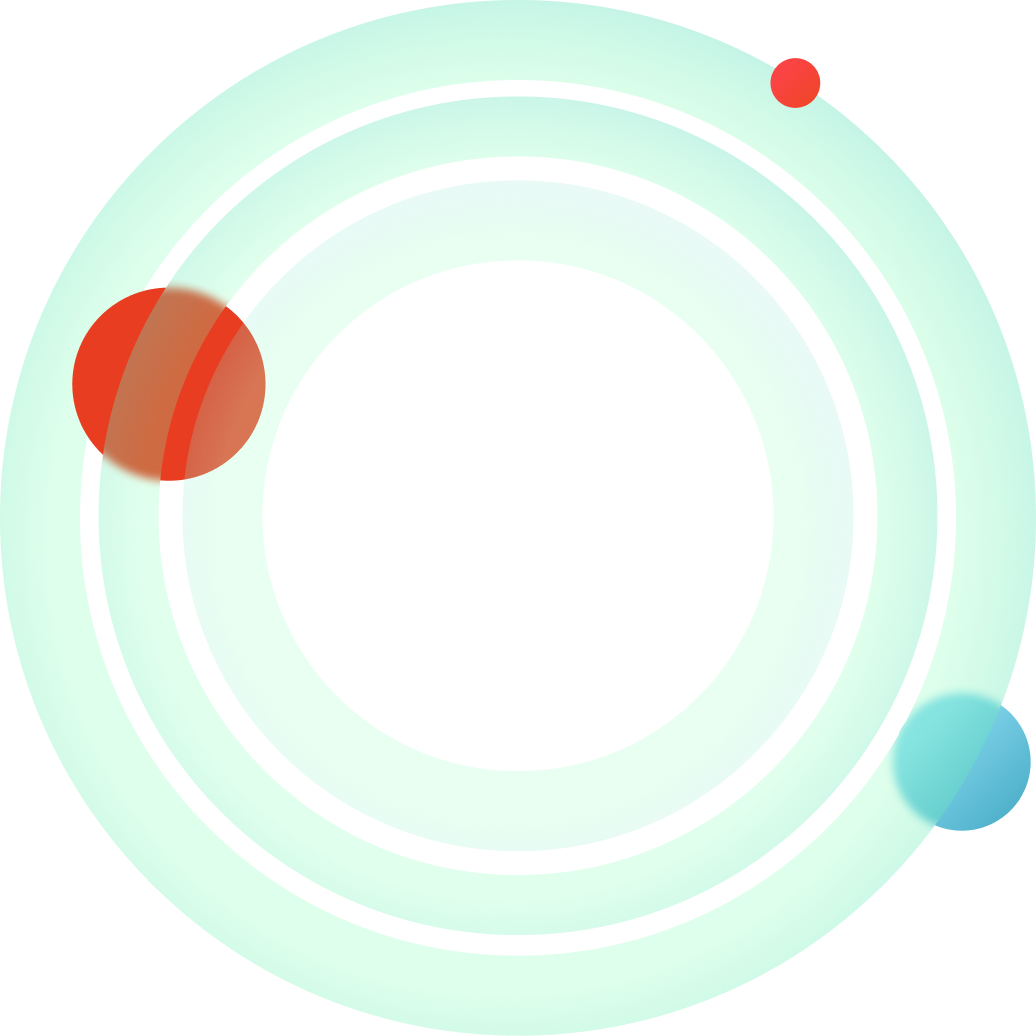
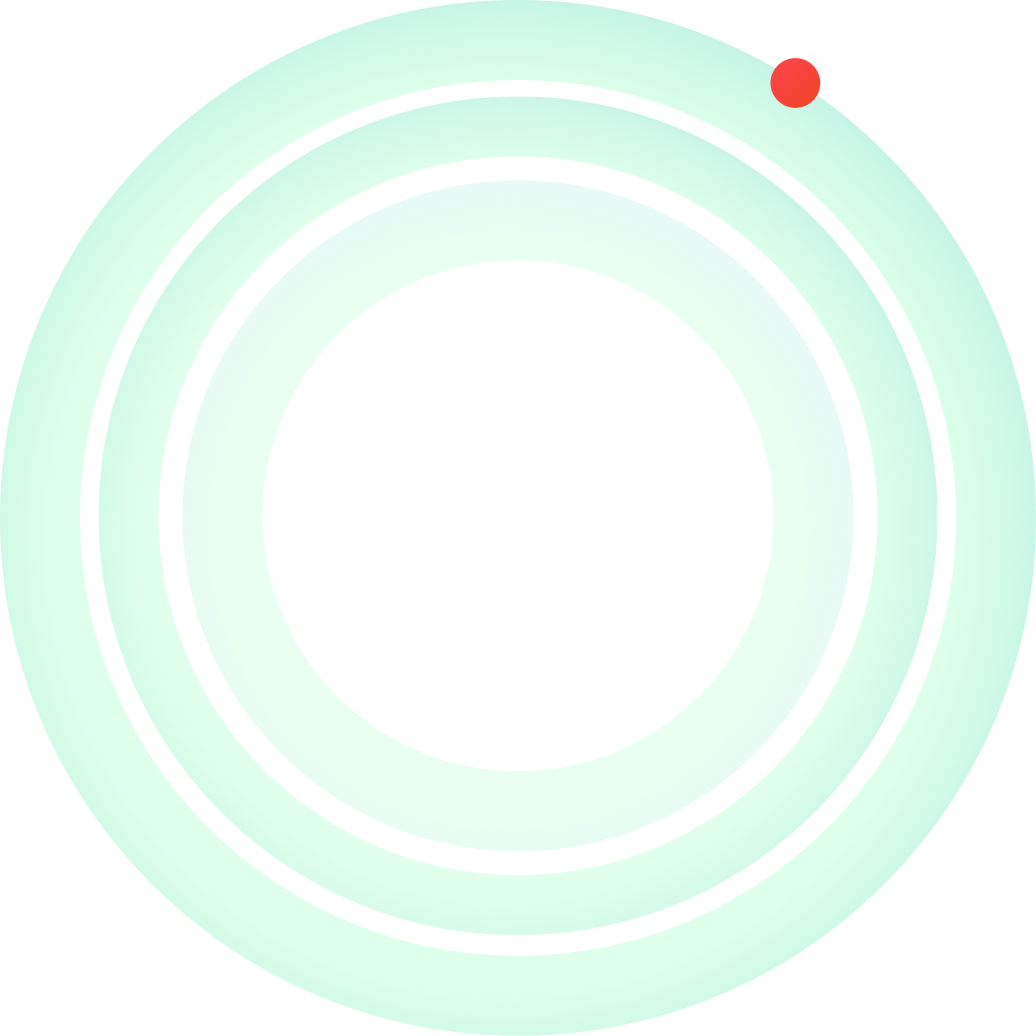
aplicando los estilos parte 1

Changed region(s): [[0.0618, 0.278, 0.278, 0.4633], [0.834, 0.6486, 1.0, 0.8031]]

diff --git a/src/app/login/page.tsx b/src/app/login/page.tsx
@@ -11,15 +11,26 @@ import GoogleIcon from "../../../public/images/auth/google.png";
 import Image from "next/image";
 
 import TextField from "@mui/material/TextField";
-import { FormControl, IconButton, InputAdornment, InputLabel, OutlinedInput } from "@mui/material";
+import {
+  FormControl,
+  IconButton,
+  InputAdornment,
+  InputLabel,
+  OutlinedInput,
+} from "@mui/material";
 import { Visibility, VisibilityOff } from "@mui/icons-material";
+import Link from "next/link";
+
+import Divider from "@mui/material/Divider";
 
 const Login = () => {
   const [showPassword, setShowPassword] = React.useState(false);
 
   const handleClickShowPassword = () => setShowPassword((show) => !show);
 
-  const handleMouseDownPassword = (event: React.MouseEvent<HTMLButtonElement>) => {
+  const handleMouseDownPassword = (
+    event: React.MouseEvent<HTMLButtonElement>
+  ) => {
     event.preventDefault();
   };
   return (
@@ -27,22 +38,24 @@ const Login = () => {
       <section className="container-login">
         <article className="section-a">
           <div className="logo-container">
-            <Image className="logo" alt="logotipo" src={Logo} />
+            <Link href="/">
+              <Image className="logo" alt="logotipo" src={Logo} />
+            </Link>
           </div>
           <div className="auth-container">
             <div className="auth-credential">
               <div className="auth-credential-head">
                 <h4>Login</h4>
-                <p>Daftar</p>
+                <Link href="/" className="link-head">Daftar</Link>
               </div>
-              <form action="">
+              <form action="" className="form">
                 <TextField
                   id="outlined-basic"
                   label="Digita tu email"
                   variant="outlined"
                   size="medium"
                 />
-                <FormControl sx={{ m: 1, width: "25ch" }} variant="outlined">
+                <FormControl sx={{ width: "100%" }} variant="outlined">
                   <InputLabel htmlFor="outlined-adornment-password">
                     Password
                   </InputLabel>
@@ -65,21 +78,22 @@ const Login = () => {
                     label="Password"
                   />
                 </FormControl>
-                <button className="boton-base btn-login">Login</button>
+                <button className="boton btn-login">Login</button>
               </form>
             </div>
             <div className="etiqueta">
+              <Divider sx={{ zIndex: -1 }} className="divider" />
               <p>Puedes registrarte con</p>
             </div>
             <div className="auth-more">
               <div className="cont-btns-more">
-                <button className="icon-btn">
-                   <Image alt="face-icon" src={FacebookIcon}/>
-                   Facebook
+                <button className=" boton icon-btn face-btn">
+                  <Image className="icon" alt="face-icon" src={FacebookIcon} />
+                  Facebook
                 </button>
-                <button className="icon-btn">
-                   <Image alt="google-icon" src={GoogleIcon}/>
-                   Facebook
+                <button className="boton icon-btn goo-btn">
+                  <Image className="icon" alt="google-icon" src={GoogleIcon} />
+                  Google
                 </button>
               </div>
             </div>
@@ -87,14 +101,22 @@ const Login = () => {
         </article>
         <article className="section-b">
           <div className="banner-container">
-            <Image alt="Decoration image" src={Decoration} />
+            <Image
+              alt="Decoration image"
+              src={Decoration}
+              className="img-decoration"
+            />
             <div className="container-morf">
               <div className="slider-object">
                 <h2>
                   Start your journey by one click, explore beautiful world!
                 </h2>
                 <div className="img-container">
-                  <Image alt="imagen productor" src={ImageBanner} />
+                  <Image
+                    className="imagen-productor"
+                    alt="imagen productor"
+                    src={ImageBanner}
+                  />
                 </div>
               </div>
             </div>

diff --git a/src/app/login/login.css b/src/app/login/login.css
@@ -1,8 +1,158 @@
-.container-login{
+.container-login {
+  height: 100vh;
+  display: flex;
+  align-items: center;
+  justify-content: center;
+  gap: 3rem;
+}
+.section-a {
+  width: 420px;
+  height: 94%;
+  
+}
+
+.logo-container{
+
+}
+
+.auth-container{
+    width: 380px;
+    padding: 2rem;
+}
+
+.auth-credential{
+  margin-top: 3.5rem;
+}
+
+.auth-credential-head{
     display: flex;
+    justify-content: space-between;
+    align-items: center;
+    margin-bottom: 1rem;
 }
-.section-b{
-    width: 700px;
-    overflow: hidden;
-    height: 90vh;
+.link-head {
+ color: var(--firts-color-green-1);
 }
+.auth-credential-head h4{
+    color: #515151;
+}
+.form{
+    display: flex;
+    flex-direction: column;
+    gap: 1rem;
+    margin-bottom: 1rem;
+}
+.boton{
+    width: 100%;
+    cursor: pointer;
+    height: 2.8rem;
+    border-radius: 4px;
+    transition: all .3s;
+    
+}
+.btn-login{
+    background: var(--firts-color-green-1);
+    color: #fff;
+    border: 1px solid #42c366;
+}
+.btn-login:hover{
+    background: none;
+    border-color: #42c366;
+    color: #42c366;
+}
+
+.etiqueta{
+    margin-bottom: 1.5rem;
+    margin-top: 0.5rem;
+    width: 100%;
+}
+.etiqueta p{
+    width: 65%;
+    margin: 0 auto;
+    z-index: 200;
+    background: #ffffff;
+    text-align: center;
+    color: #aaaaaa;
+}
+.divider{
+    
+    transform: translateY(13px);
+}
+.cont-btns-more{
+    display: flex;
+    flex-direction: column;
+    gap: 1rem;
+}
+.icon-btn{
+ background: none;
+ border: 1px solid #D0D0D0;
+ display: flex;
+ align-items: center;
+ justify-content: center;
+ gap: .5rem;
+}
+.boton .icon{
+   width: 24px;
+   height: 24px;
+}
+.face-btn:hover{
+    border-color: #304980;
+}
+.goo-btn:hover{
+    border-color: var(--firts-color-red);
+}
+
+.section-b {
+  position: relative;
+  width: 500px;
+  overflow: hidden;
+  height: 94vh;
+  background: linear-gradient(to left, #42c366, #42c37d);
+  border-radius: 15px;
+}
+.banner-container {
+  width: 100%;
+  height: 100%;
+  position: relative;
+  display: flex;
+  align-items: center;
+  justify-content: center;
+}
+.img-decoration {
+  position: absolute;
+  bottom: -20rem;
+  left: -12rem;
+  z-index: 0;
+}
+.container-morf {
+  border-radius: 15px;
+  z-index: 200;
+  width: 85%;
+  height: 30rem;
+  overflow: hidden;
+  background: rgba(255, 255, 255, 0.1);
+  backdrop-filter: blur(10px);
+  border-radius: 15px;
+  border: 1px solid rgba(200, 200, 200, 0.125);
+  box-shadow: 0 8px 32px rgba(0, 0, 0, 0.1);
+  padding: 2rem;
+  transition: transform 0.2s ease-in-out;
+}
+.container-morf:hover {
+  transform: scale(1.02);
+}
+.slider-object h2{
+ color: #fff;
+ width: 90%;
+}
+.img-container{
+  margin-top: 2.6rem;
+  height: 320px;
+  position: relative;
+}
+.imagen-productor{
+  height: 100%;
+}
+
+
+
